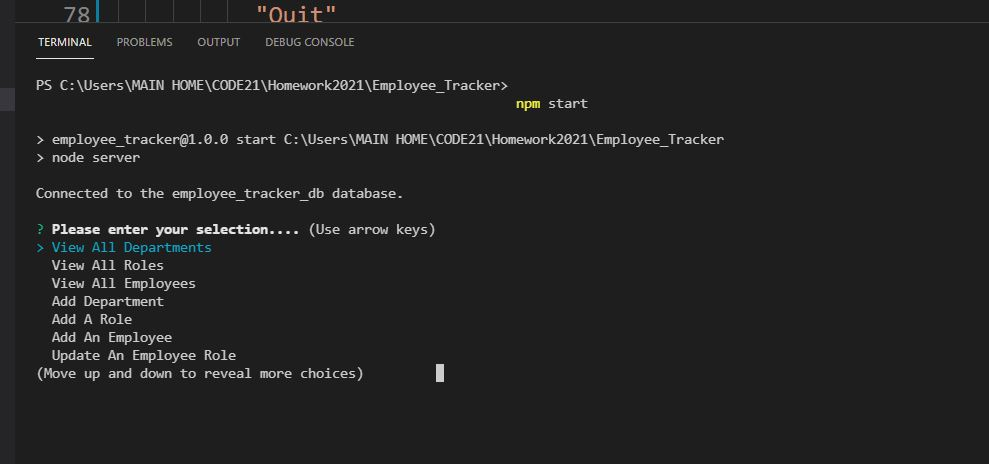
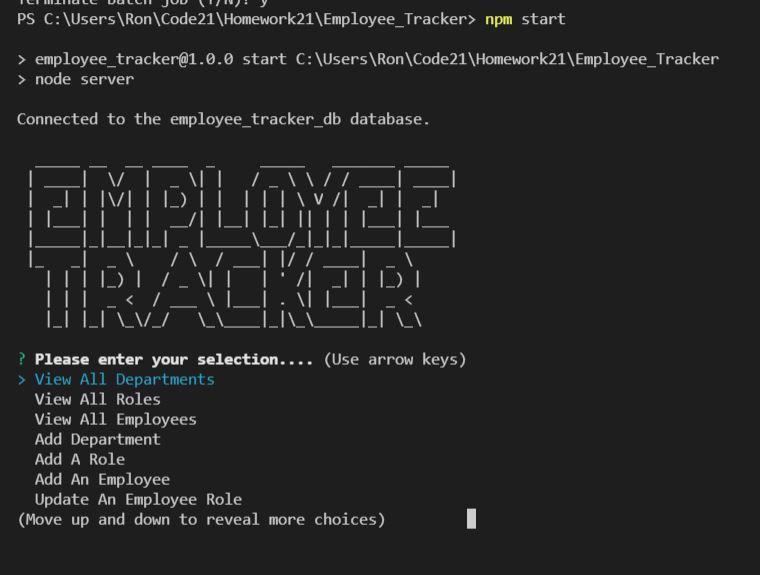
new and improved-1

diff --git a/server.js b/server.js
@@ -9,7 +9,7 @@ const mysql = require("mysql2");
 const PORT = process.env.PORT || 3001;
 
 // Import and require console table for data layout
-require("console.table");
+const cTable = require('console.table');
 
 // FIGfont spec in JavaScript
 const figlet = require("figlet");
@@ -20,7 +20,7 @@ const db = mysql.createConnection(
     host: "localhost",
     // MySQL username,
     user: "root",
-    //  MySQL password here
+    //  MySQL password here using 'dotenv'
     password: process.env.DB_PASSWORD,
     database: "employee_tracker_db",
   },
@@ -29,44 +29,37 @@ const db = mysql.createConnection(
 
 console.log(" ");
 
-//  EXTRA FLUFF --  Later
-
-// figlet(
-//   "EMPLOYEE         MANAGER",
-
-//   {
-//     font: "Standard",
-//     horizontalLayout: "3/4",
-//     verticalLayout: "Full",
-//   },
-
-//   function (err, data) {
-//     if (err) {
-//       console.log("Error found in Figlet...");
-//       console.dir(err);
-//       return;
-//     }
-//     console.log(data);
-//   }
-// );
-
-// setInterval(1000);
-
-// Query database
-// db.query('SELECT * FROM department', function (err, results) {
-  // console.log(results);
-//   console.table(results);
-// });
+//  EXTRA FLUFF --
+figlet.text(
+  "EMPLOYEE    TRACKER",
+  {
+    font: "Standard",
+    horizontalLayout: "default",
+    verticalLayout: "default",
+    width: 100,
+    whitespaceBreak: true,
+  },
+  function (err, data) {
+    if (err) {
+      console.log("Error found in Figlet...");
+      console.dir(err);
+      return;
+    }
+    console.log(data);
+  }
+);
 
 
+// main program ----------------
 
-function tracker() {
+const tracker = () => {
   inquirer
-  // present choices for database entry
-    .prompt([{
+    // present choices for database entry
+    .prompt([
+      {
         type: "list",
         message: "Please enter your selection....",
-        name: "choices",
+        name: "select",
         choices: [
           "View All Departments",
           "View All Roles",
@@ -75,120 +68,117 @@ function tracker() {
           "Add A Role",
           "Add An Employee",
           "Update An Employee Role",
-          "Quit"
+          "Quit",
         ],
       },
     ])
+
     // To review  -----------
     .then((entry) => {
-      getAnswerTo(entry.choices);
+      getAnswerTo(entry.select);
+      // console.log(entry.select);
     });
-  const getAnswerTo = async(reply) => {
-    switch (reply) {
-      case "View All Departments":
-        // console.log('hello world');
-        await  ViewAllDepartments();
-        // call 'view all dept' function
-        // employeeTrackerDatabase.ViewAllDepartments()
-        //   .then((results) => console.table(results))
-        //   .catch((err) => console.error(err));
-        break;
-      case "View All Roles":
-        // call 'view all roles' function
-        // employeeTrackerDatabase.GetAllRoles()
-        //   .then((results) => console.table(results))
-        //   .catch((err) => console.error(err));
-        break;
-      case "View All Employees":
-        // call 'view all employees' function
-        // employeeTrackerDatabase.GetAllEmployees()
-        //   .then((results) => console.table(results))
-        //   .catch((err) => console.error(err));
-        break;
-      case "Add Department.":
-        // call 'add dept' function
-        addDepartment();
-        break;
+};
 
-      case "Add A Role.":
-        // call 'add a role' function
-        addRole();
-        break;
+// reply = entry.select
+const getAnswerTo = async (reply) => {
+  switch (reply) {
+    case "View All Departments":
+     
+      await ViewAllDepartments();
+      // call 'view all dept' function
+      // employeeTrackerDatabase.ViewAllDepartments()
+      //   .then((results) => console.table(results))
+      //   .catch((err) => console.error(err));
+      break;
+    case "View All Roles":
+      // call 'view all roles' function
+      // employeeTrackerDatabase.GetAllRoles()
+      //   .then((results) => console.table(results))
+      //   .catch((err) => console.error(err));
+      break;
+    case "View All Employees":
+      // call 'view all employees' function
+      // employeeTrackerDatabase.GetAllEmployees()
+      //   .then((results) => console.table(results))
+      //   .catch((err) => console.error(err));
+      break;
+    case "Add Department":
+      // call 'add dept' function
+      await addDepartment();
+      break;
 
-      case "Add An Employee.":
-        //  call 'add an employee' function
-        addEmployee();
-        break;
+    case "Add A Role":
+      // call 'add a role' function
+      addRole();
+      break;
 
-      case "Update An Employee Role.":
-        // call 'update an employee role' function
-        updateEmployeeRole();
-        break;
+    case "Add An Employee":
+      //  call 'add an employee' function
+      addEmployee();
+      break;
 
-      case "Quit":
-        quit();
-        break;
-    }
-  };
+    case "Update An Employee Role.":
+      // call 'update an employee role' function
+      updateEmployeeRole();
+      break;
 
+    case "Quit":
+      quit();
+      break;
+  }
+};
 
+// //    add each function  =============
 
+// // }
 
-//    add each function  =============
-
-}
-
-async function ViewAllDepartments() {
-// Read all Dept and display
-  // const sql = `SELECT department.id AS Dept ID, 
-  // department.name AS Dept FROM department;`;
-  db.query('SELECT * FROM department', function (err, results) {
+const ViewAllDepartments = async () => {
+  // Read all Dept and display
+  db.query("SELECT * FROM department", function (err, results) {
     // console.log(results);
     console.log(" ");
-  console.table(results);
-   });
+    console.table(results);
+  });
+};
 
+const addDepartment = async () => {
+  await inquirer
+    // present choices for database entry
+    .prompt([
+      {
+        type: "input",
+        message: "Please enter the dept name",
+        name: "departmentName",
+      },
+    ])
 
+    // To review  -----------
+    .then((entry) => {
+      db.query(
+        "INSERT INTO department (name) VALUES (?)",
+        [entry.departmentName],
+        function (err, results) {
+          // console.log(results);
+          console.log(" ");
+          console.table(`Department ${entry.departmentName} added sucessfully`);
+        }
+      );
+    });
+};
 
-  // db.query(sql, (err, params, err, results) => {
-  //   if (err) {
-  //    console.table(results);
-  //   }else{
-  //     console.error(err);
-  //   }
-  //    return;
-  //      tracker();
-      
-  // });
-  
+// function ViewRoles() {}
+// function ViewEmployees() {}
+// function addDepartment() {}
 
-
-
-}
-
-function ViewRoles() {
-
-}
-function ViewEmployees() {
-
-}
-function addDepartment() {
-
-}
-
-function addRole() {
-
-}
-function addEmployee() {
-
-}
-function updateEmployeeRole() {
-
-}
+// function addRole() {}
+// function addEmployee() {}
+// function updateEmployeeRole() {}
 
 function quit() {
-  console.log('BYE')
+  console.log(" ");
+  console.log(" OK, BYE");
+  console.log(" ");
   process.quit();
 }
-
-tracker();
+setTimeout(tracker, 1000);
